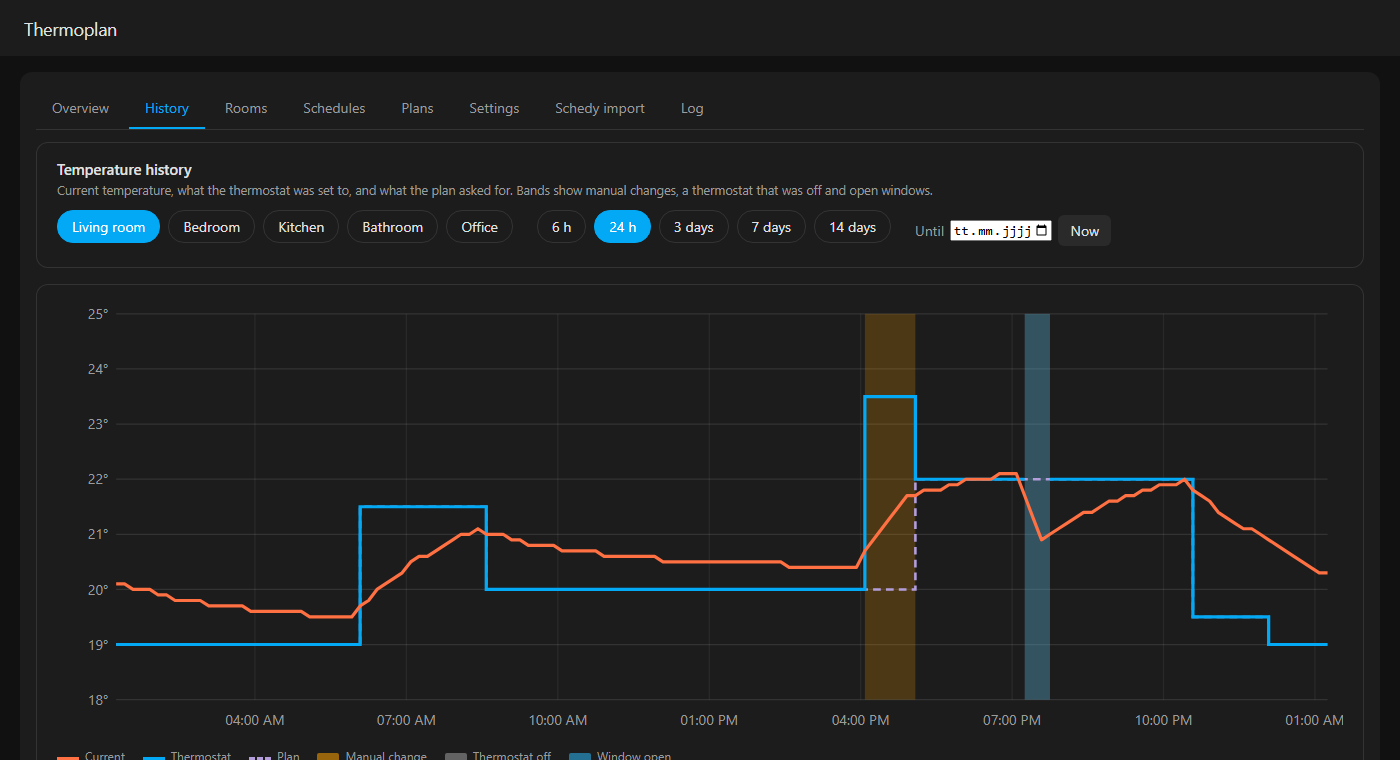
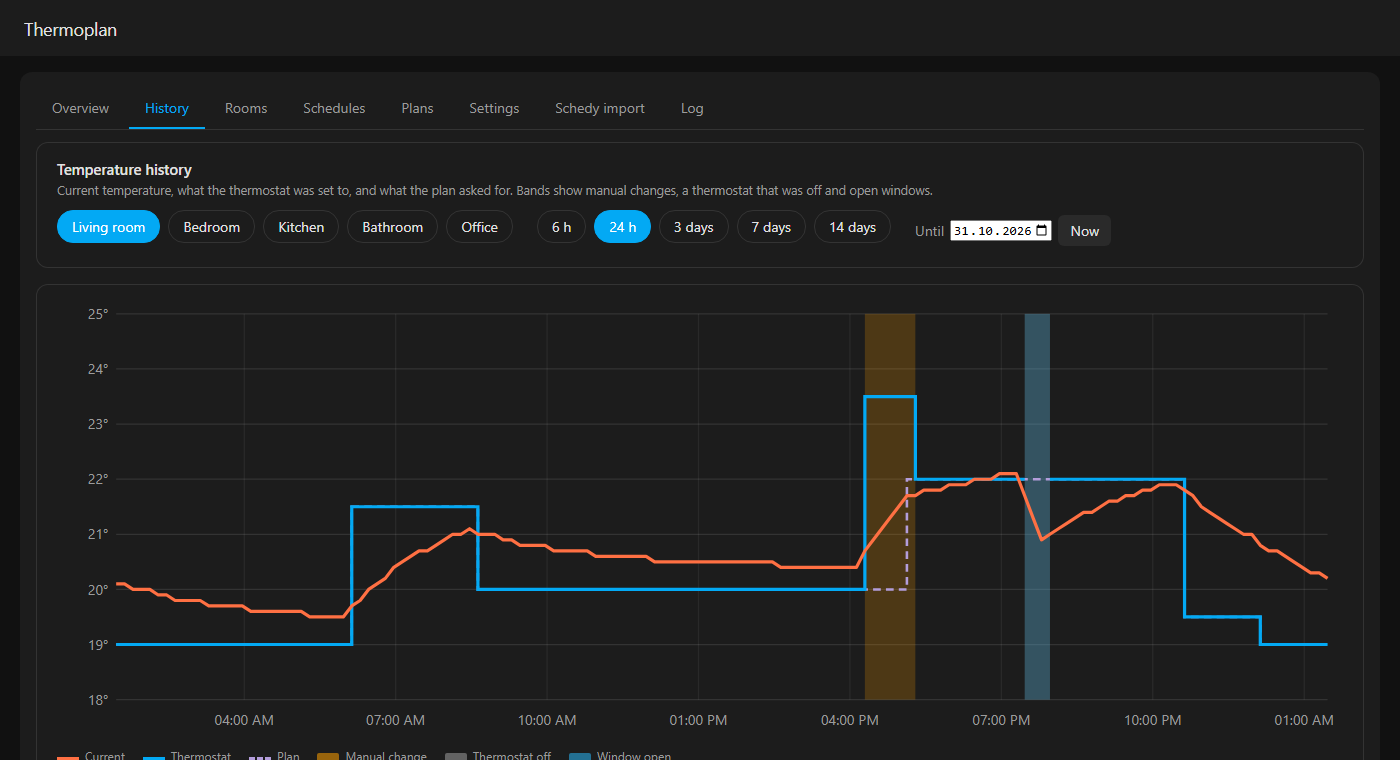
History: the Until date defaults to today

diff --git a/custom_components/thermoplan/frontend/thermoplan-history.js b/custom_components/thermoplan/frontend/thermoplan-history.js
@@ -71,6 +71,7 @@ export function renderHistory({ state, T, getHass, render }) {
   const st = state.hist || (state.hist = { room: rooms[0].id, hours: 24, until: null, key: "", data: null, loading: false, error: null });
   if (!rooms.some((r) => r.id === st.room)) st.room = rooms[0].id;
   const room = rooms.find((r) => r.id === st.room);
+  const today = new Date(Date.now() - new Date().getTimezoneOffset() * 60000).toISOString().slice(0, 10); // local date
   const end = st.until ? new Date(st.until + "T23:59:59") : new Date();
   const endMs = Math.min(end.getTime(), Date.now());
   const startMs = endMs - st.hours * 3600 * 1000;
@@ -96,8 +97,9 @@ export function renderHistory({ state, T, getHass, render }) {
       h("div", { class: "chips" }, ...RANGES.map((n) => h("button", { class: "chip" + (n === st.hours ? " active" : ""),
         onclick: () => { st.hours = n; render(); } }, T("h" + n)))),
       h("label", { class: "l", style: "display:flex;gap:6px;align-items:center;color:var(--secondary-text-color)" }, T("hist_until"),
-        h("input", { type: "date", value: st.until || "", max: new Date().toISOString().slice(0, 10),
-          onchange: (ev) => { st.until = ev.target.value || null; render(); } }),
+        h("input", { type: "date", value: st.until || today, max: today,
+          // today means "up to now"; an earlier day shows that whole day
+          onchange: (ev) => { st.until = ev.target.value && ev.target.value < today ? ev.target.value : null; render(); } }),
         h("button", { class: "btn secondary", onclick: () => { st.until = null; render(); } }, T("hist_now")))));
 
   let body;
